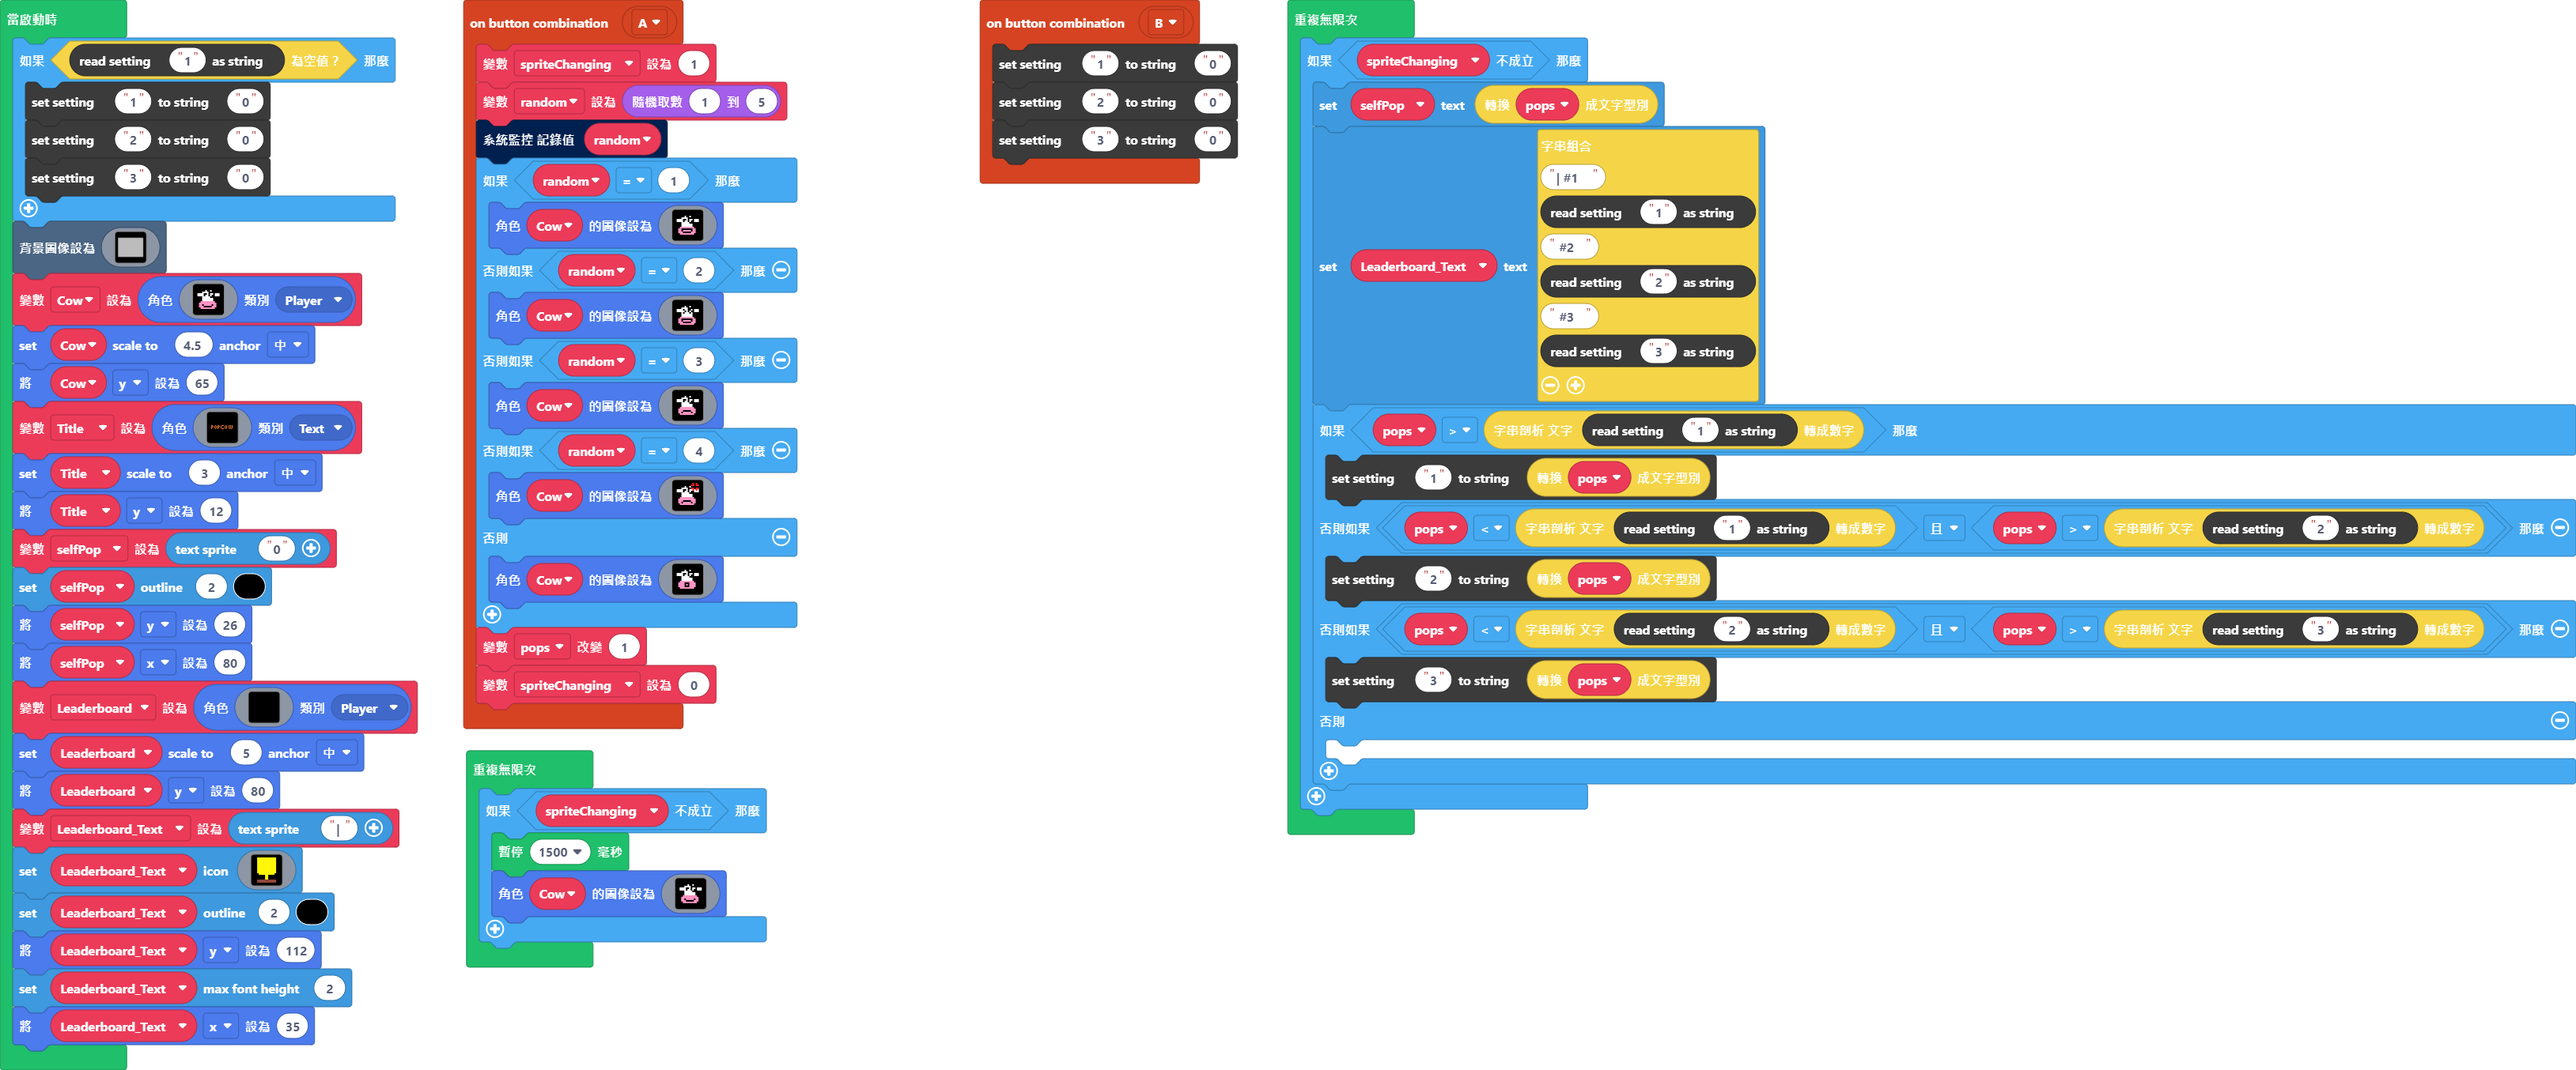
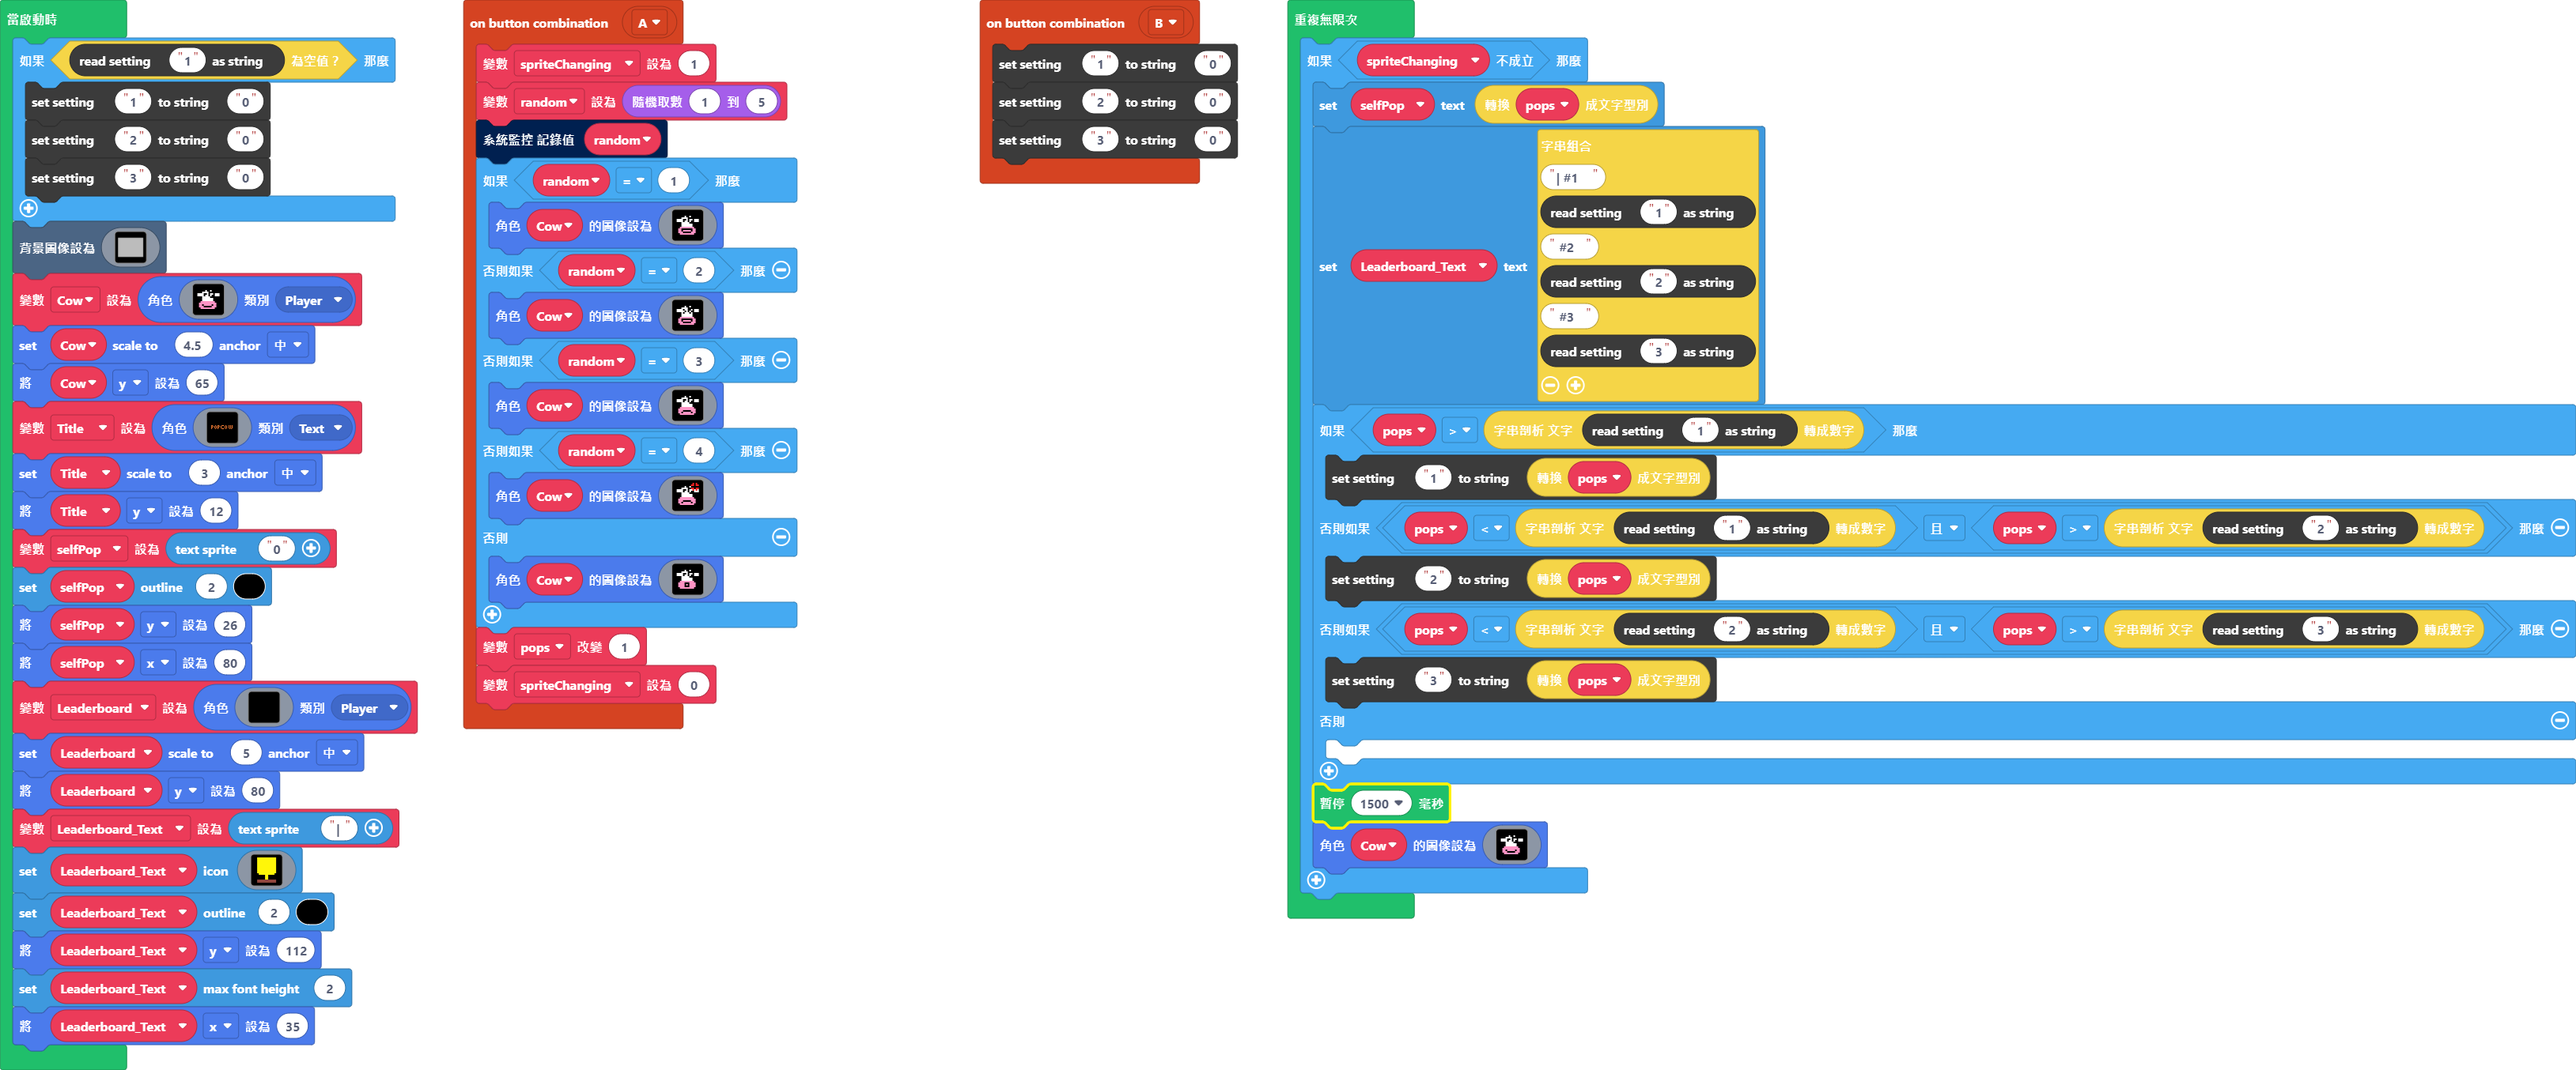
YAYAY

Changed region(s): [[0.1551, 0.6824, 0.3101, 0.9306], [0.4962, 0.7134, 0.6202, 0.8685]]

diff --git a/main.ts b/main.ts
@@ -63,10 +63,6 @@ forever(function () {
         } else {
         	
         }
-    }
-})
-forever(function () {
-    if (!(spriteChanging)) {
         pause(1500)
         Cow.setImage(assets.image`Smily Cow`)
     }
